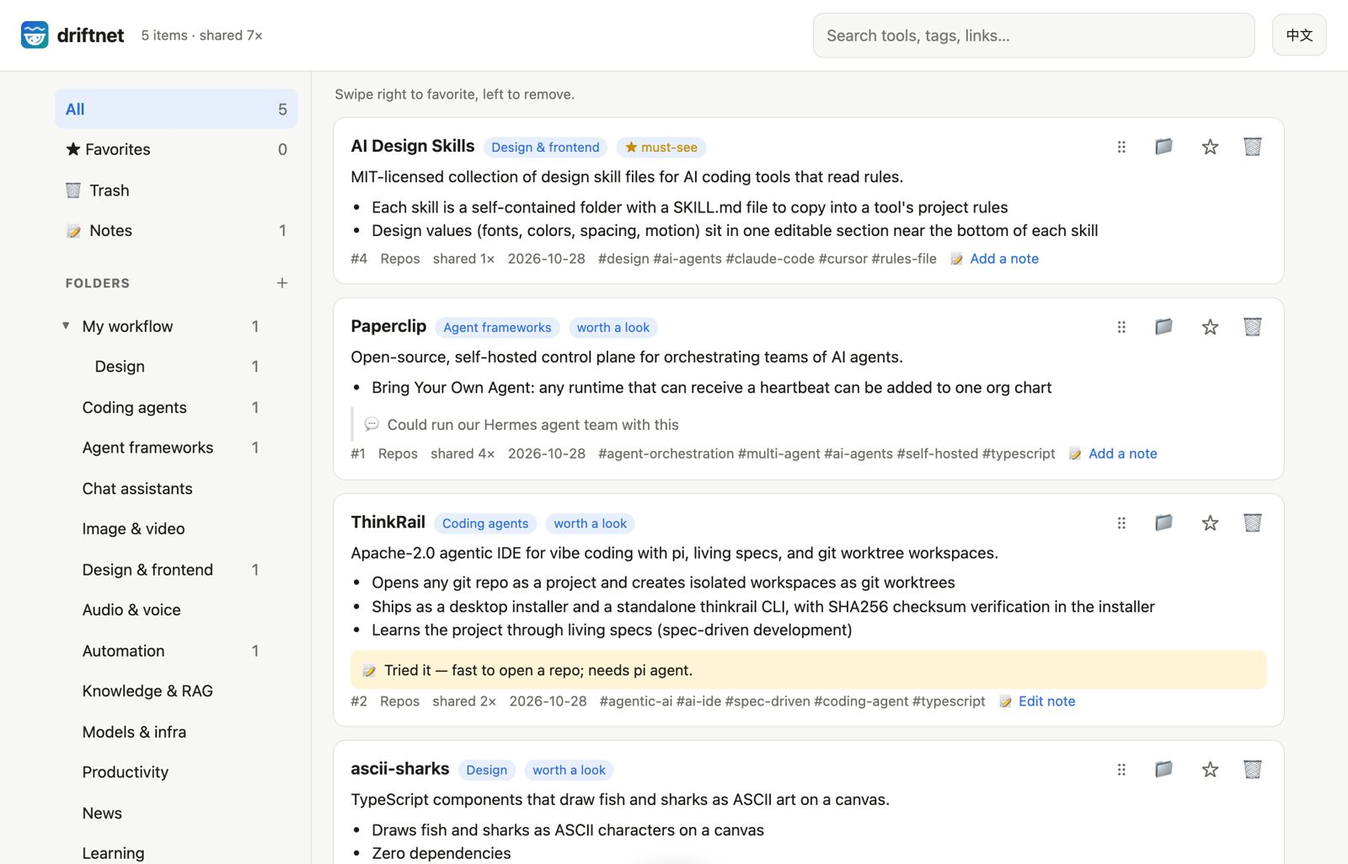
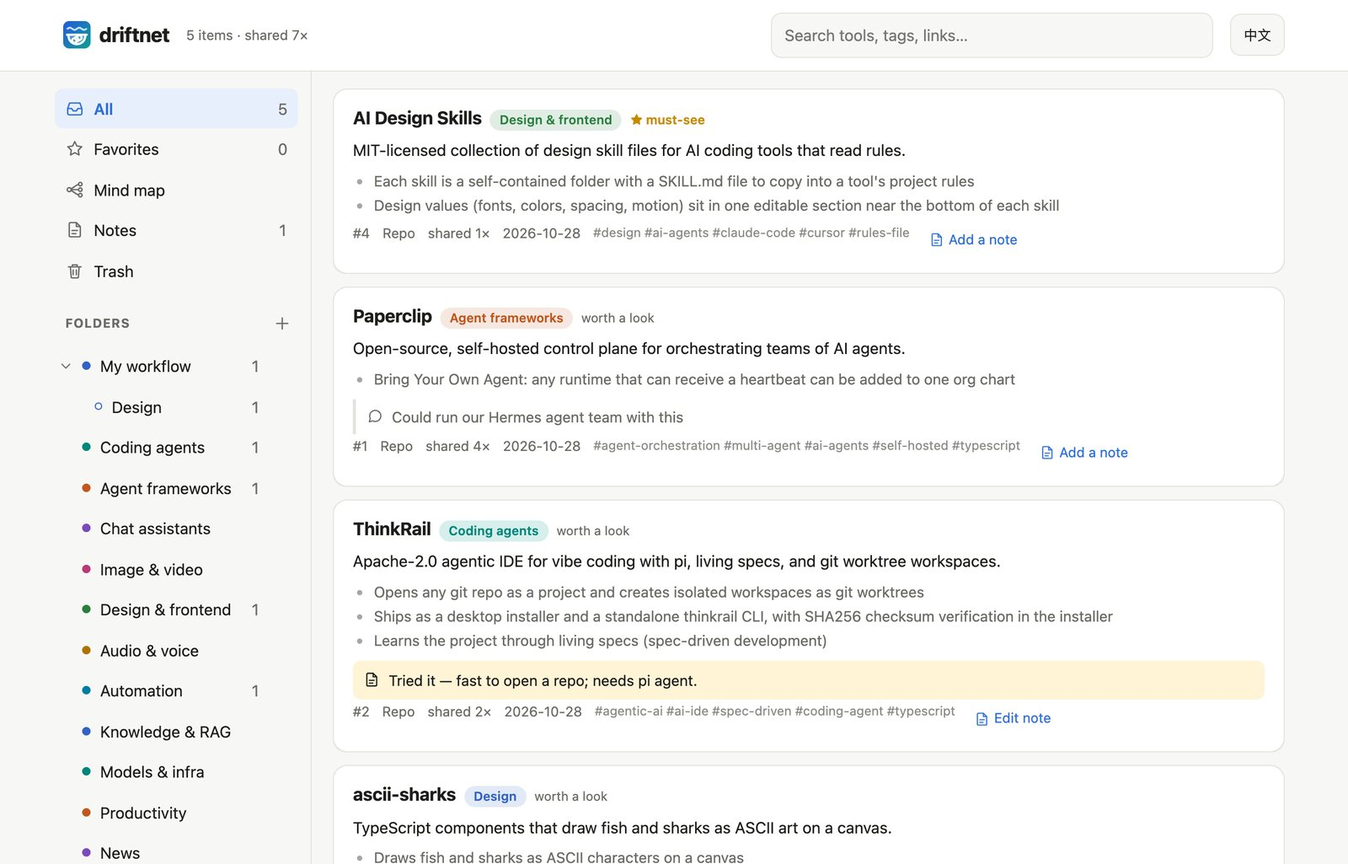
[DOC][FIX] persona round 3, new screenshots, README: mind map, read-only links, keyboard
Round 3 re-tests (phone user, power organiser, keyboard + dark mode):
- Phone: the arrival flash shows inside the card; plain wrong-password
  text; map hint describes hold-then-tap; on the map, toasts and the pick
  bar sit at the top (never over zoom); the map always opens on the root;
  fit stops at a readable size; a bigger hit area for ⋯.
- Organising: Move to… matches visible names first (typing "Agent" no
  longer files into "Coding agents"); a folder can't take a built-in
  folder's name in any language; the expand/collapse button follows the
  map; z only undoes while the toast is up; focus moves to the next card.
- Keyboard: focus returns to the card / map node after moving, a saved
  note or an undo; Settings opened from the drawer returns to ☰ and opens
  on the selected tab; the skip link is inert behind the drawer.
- Dark: empty level-1 map folders readable again; no raw variable names
  in Access; "summaries: off"; "How the bot replies".

README (en + zh-TW): mind map, read-only share links, keyboard shortcuts,
pnpm demo; new screenshots (desktop, phone triptych, mind map, notes and
settings, access and connect).

Claude-Session: https://claude.ai/code/session_01DiqM31RotdT7g4WSGPaMtt

diff --git a/apps/server/public/index.html b/apps/server/public/index.html
@@ -194,7 +194,7 @@
   .mnode.folder.l1 .cnt { background: rgba(255,255,255,.25); color: #fff; }
   .mnode.folder.l1 .tw, .mnode.folder.l1 .opt { color: #fff; }
   .mnode.folder.l2 { font-weight: 600; background: color-mix(in srgb, var(--c) 14%, var(--panel)); }
-  .mnode.folder.vacant { opacity: .6; border: 2px dashed var(--c); background: var(--panel); color: var(--text); }
+  .mnode.folder.vacant { opacity: .75; border: 2px dashed var(--c); background: var(--panel); color: var(--text); }
   .mnode.folder.vacant .opt { color: var(--muted); }
   .mnode.item { height: 30px; font-size: 13px; padding: 0 4px; border: 0; border-bottom: 2px solid var(--c); border-radius: 0; background: none; box-shadow: none; }
   .mnode.item:hover { background: color-mix(in srgb, var(--c) 10%, transparent); border-radius: 6px 6px 0 0; }
@@ -220,6 +220,13 @@
   @keyframes bump { 30% { transform: scale(1.14); box-shadow: 0 0 0 6px color-mix(in srgb, var(--c) 35%, transparent); } }
   .map-wrap.panning { cursor: grabbing; }
   body.map-view { overflow: hidden; }
+  /* On the map, messages sit at the top so they never cover the zoom buttons. */
+  body.map-view .toast { bottom: auto; top: calc(env(safe-area-inset-top) + 76px); transform: translate(-50%, calc(-100% - 120px)); }
+  body.map-view .toast.show { transform: translate(-50%, 0); }
+  body.map-view .pickbar { bottom: auto; top: calc(env(safe-area-inset-top) + 72px); }
+  .pickbar button { white-space: nowrap; }
+  .mnode .opt { position: relative; }
+  .mnode .opt::before { content: ""; position: absolute; inset: -9px; }
   body.map-view main { padding-bottom: 0; }
   .map-wrap { user-select: none; -webkit-user-select: none; }
   .mghost { position: fixed; z-index: 30; pointer-events: none; transform: translate(-50%, -130%) rotate(-2deg); opacity: .95; box-shadow: 0 10px 28px rgba(0,0,0,.25); }
@@ -292,8 +299,9 @@
   /* A card sits on top of two action strips that show while it is dragged. */
   .swipe { position: relative; border-radius: 12px; overflow: hidden; scroll-margin-top: 90px; transition: height .25s ease, margin .25s ease, opacity .25s ease; }
   .swipe.gone { opacity: 0; }
-  .swipe.flash .card { animation: flash 1.6s ease; }
-  @keyframes flash { 0%, 40% { box-shadow: 0 0 0 4px color-mix(in srgb, var(--accent) 55%, transparent); } 100% { box-shadow: var(--shadow); } }
+  /* Inside the card (the swipe wrapper clips anything outside it). */
+  .swipe.flash .card { animation: flash 2s ease; }
+  @keyframes flash { 0%, 55% { outline: 3px solid var(--accent); outline-offset: -3px; background: var(--accent-soft); } 100% { outline-color: transparent; } }
   .act { position: absolute; inset: 0; display: flex; align-items: center; padding: 0 22px; font-weight: 600; font-size: 14px; }
   .act.right { justify-content: flex-start; background: var(--star-soft); color: var(--star); }
   .act.left { justify-content: flex-end; background: var(--danger-soft); color: var(--danger); }
@@ -352,9 +360,12 @@
   /* Dark mode: light branch fills need dark text on the map. */
   @media (prefers-color-scheme: dark) { :root:not([data-theme="light"]) .mnode.folder.l1, :root:not([data-theme="light"]) .mnode.folder.l1 .tw,
                                         :root:not([data-theme="light"]) .mnode.folder.l1 .opt { color: #121211; }
-                                        :root:not([data-theme="light"]) .mnode.folder.l1 .cnt { background: rgba(0,0,0,.18); color: #121211; } }
+                                        :root:not([data-theme="light"]) .mnode.folder.l1 .cnt { background: rgba(0,0,0,.18); color: #121211; }
+                                        :root:not([data-theme="light"]) .mnode.folder.l1.vacant, :root:not([data-theme="light"]) .mnode.folder.l1.vacant .tw,
+                                        :root:not([data-theme="light"]) .mnode.folder.l1.vacant .opt { color: var(--text); } }
   :root[data-theme="dark"] .mnode.folder.l1, :root[data-theme="dark"] .mnode.folder.l1 .tw, :root[data-theme="dark"] .mnode.folder.l1 .opt { color: #121211; }
   :root[data-theme="dark"] .mnode.folder.l1 .cnt { background: rgba(0,0,0,.18); color: #121211; }
+  :root[data-theme="dark"] .mnode.folder.l1.vacant, :root[data-theme="dark"] .mnode.folder.l1.vacant .tw, :root[data-theme="dark"] .mnode.folder.l1.vacant .opt { color: var(--text); }
 
   @media (max-width: 720px) {
     header { padding: 10px 16px; padding-top: max(10px, env(safe-area-inset-top)); gap: 8px 10px; }
@@ -531,7 +542,7 @@
       moveTo: "Move to…", moveTitle: (n) => `Move “${n}” to`, moved: (n, f) => `Moved “${n}” to ${f}`, expand: "Show sub-folders",
       dragHint: "Drag onto a folder in the sidebar", foundIn: "Found in this post:", folderMoved: (n, f) => `“${n}” is now inside ${f}`,
       topLevelShort: "the top level",
-      map: "Mind map", mapHint: "Tap a folder to open it, tap a card to preview it. To file a card, drag it onto a folder (on a phone: hold it a moment first). ⋯ or a double-click renames a folder.",
+      map: "Mind map", mapHint: "Tap a folder to open it, tap a card to preview it. To file a card: drag it onto a folder — on a phone, hold it a moment, let go, then tap the folder. ⋯ renames a folder.",
       a11yFolder: (n, c) => `Folder ${n}, ${c} cards`, a11yCard: (n) => `Card ${n}`,
       expandAll: "Expand all", collapseAll: "Collapse all", zoomIn: "Zoom in", zoomOut: "Zoom out", fit: "Fit", openCard: "Open card",
       gotIt: "Got it", more: (n) => `+${n} more`, mapSearch: (q) => `Highlighting “${q}”`, openLink: "Open link", showInList: "Show in the list", close: "Close",
@@ -551,7 +562,7 @@
         theme: "Theme", themes: { auto: "Follow the system", light: "Light", dark: "Dark" },
         model: "Model & classifier", language: "Language & chat replies", rules: "Your rules",
         plugins: "Plugins", pluginsNone: (dir) => `No plugins. Put .js files in ${dir} — see examples/plugins in the repo.`,
-        status: (e) => `Now: sorting by ${({ jev: "Jev", llm: "the model", heuristic: "built-in rules" })[e.judge] ?? e.judge}, summaries by ${e.summarizer === "off" ? "nobody (off)" : e.summarizer}`, keep: "set — leave empty to keep", unset: "not set",
+        status: (e) => `Now: sorting by ${({ jev: "Jev", llm: "the model", heuristic: "built-in rules" })[e.judge] ?? e.judge}, summaries: ${e.summarizer === "off" ? "off" : e.summarizer}`, keep: "set — leave empty to keep", unset: "not set",
         locked: "set by the environment driftnet runs in", forbidden: "Server settings can only be changed on the computer running driftnet (or set DRIFTNET_TOKEN). Display settings still work.",
         savedServer: "Saved — already in effect", chat: "Chat replies", genCopied: "New password generated and copied — press Save to keep it",
         tabGeneral: "General", tabAccess: "Access", tabAi: "AI",
@@ -570,7 +581,7 @@
         tunnelStarting: "Starting the tunnel… (up to 30 s)", saveFirst: "Save first, then open the public URL.",
         connect: "Connect an AI",
         login: "Enter admin password", logout: "Log out on this device", loginTitle: "Unlock editing", loginOk: "Unlock", unlocked: "Unlocked — you can edit now", unlockShort: "Unlock",
-        loginWrong: "That's not the admin password.", viewOnly: "View only · Unlock",
+        loginWrong: "That password didn't work — try again.", viewOnly: "View only · Unlock",
         loginHelp: "Type this driftnet's password — usually from whoever set it up. Without it you can still look at everything.",
         loginAdvanced: "Forgot it (you set it up)? Open driftnet on the computer it runs on — Settings there sets a new one. On a server: From your computer run  ssh -L PORT:127.0.0.1:PORT <server>  and open http://localhost:PORT.",
         keyWrong: "That's neither the admin password nor a share key.",
@@ -585,7 +596,7 @@
           GITHUB_TOKEN: ["GitHub token", "Optional: GitHub lookups go from 60 to 5000 an hour"],
           DRIFTNET_LANGUAGE: ["Summary language", "English, Traditional Chinese (Taiwan), Japanese…"],
           DRIFTNET_LOCALE: ["Bot language", ""],
-          DRIFTNET_REPLY: ["Chat replies", ""],
+          DRIFTNET_REPLY: ["How the bot replies", ""],
           DRIFTNET_PUBLIC_URL: ["This page's public URL", "Replies link here, e.g. https://driftnet.example.com"],
           DRIFTNET_SUMMARY_RULES: ["Extra rules for summaries", "e.g. Say whether it's free. Mention if it needs a GPU."],
           DRIFTNET_BLOCK_DOMAINS: ["Never catalogue these domains", "Comma or space separated, e.g. example.com, spam.io"],
@@ -621,7 +632,7 @@
       moveTo: "移動到…", moveTitle: (n) => `把「${n}」移動到`, moved: (n, f) => `已將「${n}」移到 ${f}`, expand: "展開子資料夾",
       dragHint: "拖到側邊欄的資料夾", foundIn: "從這篇找到：", folderMoved: (n, f) => `「${n}」已移到 ${f} 底下`,
       topLevelShort: "最上層",
-      map: "樹狀圖", mapHint: "點資料夾展開，點卡片預覽。要整理就把卡片拖到資料夾上（手機先按住一下再拖）。按 ⋯ 或連點兩下可以改資料夾名稱。",
+      map: "樹狀圖", mapHint: "點資料夾展開，點卡片預覽。整理卡片：把它拖到資料夾上；手機上按住卡片一下、放開，再點要放進去的資料夾。按 ⋯ 可以改資料夾名稱。",
       a11yFolder: (n, c) => `資料夾 ${n}，${c} 張卡片`, a11yCard: (n) => `卡片 ${n}`,
       expandAll: "全部展開", collapseAll: "全部收合", zoomIn: "放大", zoomOut: "縮小", fit: "符合畫面", openCard: "開啟卡片",
       gotIt: "知道了", more: (n) => `還有 ${n} 張`, mapSearch: (q) => `標亮「${q}」`, openLink: "開啟連結", showInList: "在清單中查看", close: "關閉",
@@ -660,7 +671,7 @@
         tunnelStarting: "正在開通道…（最多 30 秒）", saveFirst: "先按儲存，再開公開網址。",
         connect: "連接 AI",
         login: "輸入管理密碼", logout: "在這台裝置登出", loginTitle: "解鎖編輯", loginOk: "解鎖", unlocked: "已解鎖，現在可以編輯了", unlockShort: "解鎖",
-        loginWrong: "管理密碼不對。", viewOnly: "只能看 · 解鎖編輯",
+        loginWrong: "密碼不對，再試一次。", viewOnly: "只能看 · 解鎖編輯",
         loginHelp: "輸入這個 driftnet 的密碼，通常是架設它的人給你的。沒有密碼也能看所有內容，只是不能修改。",
         loginAdvanced: "密碼是你自己設的但忘了？到跑 driftnet 的那台電腦打開網頁，設定裡可以直接設新的。跑在伺服器上的話：在你的電腦執行  ssh -L PORT:127.0.0.1:PORT <伺服器>  再打開 http://localhost:PORT。",
         keyWrong: "這不是管理密碼，也不是分享碼。",
@@ -675,7 +686,7 @@
           GITHUB_TOKEN: ["GitHub token", "選填：GitHub 查詢上限從每小時 60 次變 5000 次"],
           DRIFTNET_LANGUAGE: ["摘要語言", "English、Traditional Chinese (Taiwan)、Japanese…"],
           DRIFTNET_LOCALE: ["機器人語言", ""],
-          DRIFTNET_REPLY: ["聊天室回覆", ""],
+          DRIFTNET_REPLY: ["機器人怎麼回覆", ""],
           DRIFTNET_PUBLIC_URL: ["這個網頁的公開網址", "回覆裡的連結會指到這裡，例如 https://driftnet.example.com"],
           DRIFTNET_SUMMARY_RULES: ["摘要的額外規則", "例如：說明是否免費。需要 GPU 的話要提到。"],
           DRIFTNET_BLOCK_DOMAINS: ["不要收錄的網域", "用逗號或空白分隔，例如 example.com, spam.io"],
@@ -797,6 +808,7 @@
     // Keyboard and screen-reader focus stay inside the drawer while it is open.
     for (const id of ["list", "crumb"]) $(id).inert = open && isDrawer();
     document.querySelector("header").inert = open && isDrawer();
+    document.querySelector(".skip").inert = open && isDrawer();
     $("menu").setAttribute("aria-expanded", String(open));
     if (!keyboard) return;
     if (open) $("nav").querySelector('[aria-pressed="true"]')?.focus({ preventScroll: true });
@@ -974,7 +986,7 @@
                                       ...(body ? { body: JSON.stringify(body) } : {}) });
       if (res.status === 401) { needAdmin(); return null; }
       const data = await res.json().catch(() => ({}));
-      if (!res.ok) { $("fd-error").textContent = data.error ?? T().failed; return null; }
+      if (!res.ok) { $("fd-error").textContent = friendlyError(data.error) ?? T().failed; return null; }
       return data;
     } catch {
       $("fd-error").textContent = T().failed;
@@ -1004,7 +1016,11 @@
   $("mv-cancel").onclick = () => $("move-dlg").close();
   $("mv-filter").addEventListener("input", () => {
     const q = $("mv-filter").value.trim().toLowerCase();
-    for (const b of $("mv-list").querySelectorAll("[data-to]")) b.hidden = !!q && !b.textContent.toLowerCase().includes(q) && !b.dataset.to.includes(q);
+    const rows = [...$("mv-list").querySelectorAll("[data-to]")];
+    // Match what the reader sees; the hidden id (e.g. "coding-agent") only when no visible name matches.
+    const byName = rows.filter((b) => b.textContent.toLowerCase().includes(q));
+    const shown = new Set(q ? (byName.length ? byName : rows.filter((b) => b.dataset.to.includes(q))) : rows);
+    for (const b of rows) b.hidden = !shown.has(b);
   });
   $("mv-filter").addEventListener("keydown", (e) => {
     const visible = [...$("mv-list").querySelectorAll("[data-to]:not([hidden])")];
@@ -1043,7 +1059,10 @@
     const el = document.getElementById(`item-${id}`);
     // Still inside the folder being viewed? Update the badge; otherwise it leaves the list.
     const visible = !state.category || subtreeOf(state.category).has(to);
-    if (el && !visible) dismiss(el);
+    if (el && !visible) {
+      if (el.contains(document.activeElement)) (el.nextElementSibling ?? el.previousElementSibling)?.querySelector?.(".card")?.focus();
+      dismiss(el);
+    }
     else if (el) { el.outerHTML = card(item); attachSwipe(document.getElementById(`item-${id}`)); }
     refreshTree();
     // The list and the map hold their own copies of the item: keep both in step.
@@ -1167,8 +1186,9 @@
     $("st-body").dataset.tab = tab;
     $("st-cancel").textContent = t.cancel;
     $("st-save").textContent = st.save;
-    settingsOpener = document.activeElement;
+    settingsOpener = isDrawer() ? $("menu") : document.activeElement;
     $("settings-dlg").showModal();
+    $("st-body").querySelector('[data-tab-btn][aria-selected="true"]')?.focus();
   }
   let settingsOpener = null;
   $("settings-dlg").addEventListener("close", () => { if (settingsOpener?.isConnected) settingsOpener.focus(); });
@@ -1224,11 +1244,11 @@
     else tun = `<button class="btn primary" type="button" id="ac-tunnel" data-on="1" ${a.passwordSet ? "" : "disabled"}>${esc(st.tunnelOn)}</button>
         <small>${esc(a.passwordSet ? st.tunnelPrivate : st.tunnelNeedsPassword)}</small>`;
     return `<fieldset class="set-group" id="ac"><legend>${esc(st.access)}</legend>
-      <div class="set-row"><span>${esc(st.password)} <small>DRIFTNET_TOKEN</small></span>${pwInput}
+      <div class="set-row"><span title="DRIFTNET_TOKEN">${esc(st.password)}</span>${pwInput}
         <small>${esc(pw.locked ? st.locked : st.passwordHelp)}</small></div>
       <p class="warn">${esc(st.passwordWarn)}</p>
-      <label class="set-row"><span>${esc(st.accessMode)} <small>DRIFTNET_ACCESS</small></span>${modeSel}</label>
-      <div class="set-row"><span>${esc(st.shareKey)} <small>DRIFTNET_READ_KEY</small></span>${key}<small>${esc(st.shareKeyHelp)}</small></div>
+      <label class="set-row"><span title="DRIFTNET_ACCESS">${esc(st.accessMode)}</span>${modeSel}</label>
+      <div class="set-row"><span title="DRIFTNET_READ_KEY">${esc(st.shareKey)}</span>${key}<small>${esc(st.shareKeyHelp)}</small></div>
       <div class="set-row"><span>${esc(st.tunnel)}</span>${tun}<small>${esc(st.tunnelHelp)}</small>${t.error ? `<small class="dlg-error">${esc(t.error)}</small>` : ""}</div>
     </fieldset>`;
   }
@@ -1322,6 +1342,7 @@
       [/set an admin password first|Save first/, () => zh ? "要先設定並儲存管理密碼。" : "Set and save an admin password first."],
       [/cloudflared is not installed/, () => zh ? "這台電腦還沒安裝 cloudflared。" : "cloudflared isn't installed on this computer."],
       [/set by the environment/, () => zh ? "這個設定由執行環境決定（例如 systemd），要在那裡改。" : "This one is set by the environment driftnet runs in; change it there."],
+      [/already a folder called “(.+)” here/, (m) => zh ? `這裡已經有一個叫「${m[1]}」的資料夾了。` : `There's already a folder called “${m[1]}” here.`],
       [/too many wrong passwords/, () => zh ? "密碼錯太多次，請 15 分鐘後再試。" : "Too many wrong passwords — try again in 15 minutes."],
     ];
     for (const [re, f] of rules) { const m = re.exec(msg); if (m) return f(m); }
@@ -1344,7 +1365,7 @@
       if (err.unauthorized) return askToken();
       throw err;
     }
-    const allOpen = mapOpen.size > 0;
+    const allOpen = mapOpen.size > 0 || !!state.q;
     const tip = store.get("driftnet-map-tip") ? "" : `<p class="hint map-tip">${esc(t.mapHint)} <button class="link-btn" type="button" data-map="tip">${esc(t.gotIt)}</button></p>`;
     $("list").innerHTML = `<div class="map-bar">
         <button class="btn" type="button" data-map="${allOpen ? "collapse" : "expand"}">${ic(allOpen ? "collapse" : "expand")} ${esc(allOpen ? t.collapseAll : t.expandAll)}</button>
@@ -1358,8 +1379,24 @@
           <button type="button" data-map="in" aria-label="${esc(t.zoomIn)}">${ic("plus")}</button></div></div>`;
     drawMap();
     sizeMap();
-    // On a phone the whole tree rarely fits: start fitted to the width (still readable), root in view.
+    // On a phone the whole tree rarely fits: start fitted to the width (still readable).
     if (isDrawer() && !store.get("driftnet-map-zoom")) fitWidth();
+    centreOnRoot();
+  }
+  /** The toolbar's Expand all / Collapse all follows what is open. */
+  function syncMapToggle() {
+    const b = $("list").querySelector('[data-map="expand"], [data-map="collapse"]');
+    if (!b) return;
+    const open = mapOpen.size > 0, t = T();
+    b.dataset.map = open ? "collapse" : "expand";
+    b.innerHTML = `${ic(open ? "collapse" : "expand")} ${esc(open ? t.collapseAll : t.expandAll)}`;
+  }
+  /** Every time the map opens, start from the root, not wherever the scroll happened to be. */
+  function centreOnRoot() {
+    const wrap = $("map-wrap"), root = $("map-canvas")?.querySelector('.mnode[data-key="root"]');
+    if (!wrap || !root) return;
+    wrap.scrollTop = root.offsetTop * mapZoom - wrap.clientHeight / 2;
+    wrap.scrollLeft = 0;
   }
   function fitWidth() {
     const wrap = $("map-wrap"), c = $("map-canvas");
@@ -1370,7 +1407,11 @@
   }
   function fitMap() {
     const wrap = $("map-wrap"), c = $("map-canvas");
-    if (wrap && c) mapZoomTo(Math.min(1.3, (wrap.clientWidth - 8) / c.offsetWidth, (wrap.clientHeight - 8) / c.offsetHeight));
+    if (!wrap || !c) return;
+    // Fit, but never so small the text can't be read (phones stop at 0.6, desktops at 0.45); then start at the root.
+    const floor = isDrawer() ? 0.6 : 0.45;
+    mapZoomTo(Math.max(floor, Math.min(1.3, (wrap.clientWidth - 8) / c.offsetWidth, (wrap.clientHeight - 8) / c.offsetHeight)));
+    centreOnRoot();
   }
   /** The map fills the rest of the screen, so the page and the map don't scroll inside each other. */
   function sizeMap() {
@@ -1470,6 +1511,7 @@
     // The scroll area follows the zoomed size.
     canvas.style.marginRight = `${width * mapZoom - width}px`;
     canvas.style.marginBottom = `${height * mapZoom - height}px`;
+    restoreFocus();
     const first = canvas.querySelector(".mnode.hit");
     const wrap = $("map-wrap");
     // Scroll only the map, never the page (the toolbar must stay reachable).
@@ -1492,7 +1534,7 @@
   };
   const toggleFolder = (id) => {
     const refocus = document.activeElement?.dataset?.key === `f:${id}`;
-    mapOpen.has(id) ? mapOpen.delete(id) : mapOpen.add(id); saveMapOpen(); drawMap();
+    mapOpen.has(id) ? mapOpen.delete(id) : mapOpen.add(id); saveMapOpen(); drawMap(); syncMapToggle();
     if (refocus) $("map-canvas").querySelector(`.mnode[data-key="f:${CSS.escape(id)}"]`)?.focus();
   };
   /** The "+N" node: everything in that folder, as cards. */
@@ -1853,6 +1895,7 @@
     item.note = saved.note;
     const el = document.getElementById(`item-${noting}`);
     if (el) { el.outerHTML = card(item); attachSwipe(document.getElementById(`item-${noting}`)); }
+    setTimeout(restoreFocus, 0);
     toast(T().saved);
   };
 
@@ -1992,6 +2035,7 @@
     $("add-form")?.addEventListener("submit", addLink);
     $("list").querySelector("[data-connect-empty]")?.addEventListener("click", () => openConnect());
     for (const el of $("list").querySelectorAll(".swipe")) attachSwipe(el);
+    restoreFocus();
     // Only #item-<n> is ours; anything else in the hash must not break the page.
     if (/^#item-\d+$/.test(location.hash)) {
       const target = document.getElementById(location.hash.slice(1));
@@ -2193,6 +2237,23 @@
 
   // ── Toast with undo ──────────────────────────────────────────────────────
   let toastTimer;
+  /**
+   * Keyboard focus survives re-renders: remember the card or map node last focused, and put focus back
+   * when a re-render or a closing dialog would otherwise drop it on <body>.
+   */
+  let focusKey = null, focusAt = 0;
+  document.addEventListener("focusin", (e) => {
+    const card = e.target.closest?.(".swipe"), node = e.target.closest?.(".mnode");
+    if (card) { focusKey = `#${card.id} .card`; focusAt = Date.now(); }
+    else if (node) { focusKey = `.mnode[data-key="${CSS.escape(node.dataset.key)}"]`; focusAt = Date.now(); }
+  });
+  function restoreFocus() {
+    if (!focusKey || Date.now() - focusAt > 60_000 || document.querySelector("dialog[open]")) return;
+    if (document.activeElement && document.activeElement !== document.body) return;
+    const el = document.querySelector(focusKey);
+    if (el) el.focus({ preventScroll: true });
+  }
+  for (const d of document.querySelectorAll("dialog")) d.addEventListener("close", () => setTimeout(restoreFocus, 0));
   /** The newest undoable action, so z (or ⌘/Ctrl+Z) can undo it from the keyboard. */
   let lastUndo = null;
   function toast(text, undo) {
@@ -2205,14 +2266,16 @@
     $("toast").classList.add("show");
     toastMs = Math.min(9000, 4500 + text.length * 45);
     clearTimeout(toastTimer);
-    toastTimer = setTimeout(() => $("toast").classList.remove("show"), toastMs);
+    toastTimer = setTimeout(hideToast, toastMs);
   }
+  // Once the toast is gone, z no longer undoes something you can't see any more.
+  function hideToast() { $("toast").classList.remove("show"); lastUndo = null; }
   let toastMs = 5000;
   // Reading or reaching for Undo keeps the toast up.
   for (const ev of ["pointerenter", "focusin"]) $("toast").addEventListener(ev, () => clearTimeout(toastTimer));
   for (const ev of ["pointerleave", "focusout"]) $("toast").addEventListener(ev, () => {
     clearTimeout(toastTimer);
-    if ($("toast").classList.contains("show")) toastTimer = setTimeout(() => $("toast").classList.remove("show"), 2500);
+    if ($("toast").classList.contains("show")) toastTimer = setTimeout(hideToast, 2500);
   });
 
   // ── Keyboard: j/k to step through cards, then act on the focused one ─────

diff --git a/packages/core/src/store.ts b/packages/core/src/store.ts
@@ -2,6 +2,7 @@ import { mkdirSync } from "node:fs";
 import { dirname } from "node:path";
 import { DatabaseSync } from "node:sqlite";
 import type { Item, Judgement, Kind, ShareContext, Summary, Worth } from "./types.ts";
+import { categoryLabel, LOCALES } from "./i18n.ts";
 
 interface ItemRow {
   id: number; url: string; title: string; kind: string; category: string; worth: string;
@@ -238,7 +239,9 @@ export class Store {
     const parent = input.parent || null;
     if (parent && !this.folderExists(parent)) throw new FolderError(`no folder ${parent}`);
     // Two folders with the same name side by side can't be told apart (in the tree, or by the classifier).
-    if (this.folders().some((f) => (f.parent ?? null) === parent && (f.name ?? f.id).toLowerCase() === name.toLowerCase())) {
+    // A built-in folder goes by its label in every language ("Other", "其他"), not just its id.
+    const names = (f: Folder) => (f.name ? [f.name] : [f.id, ...LOCALES.map((l) => categoryLabel(f.id, l))]).map((x) => x.toLowerCase());
+    if (this.folders().some((f) => (f.parent ?? null) === parent && names(f).includes(name.toLowerCase()))) {
       throw new FolderError(`there is already a folder called “${name}” here`);
     }
     const base = name.toLowerCase().replace(/[^a-z0-9]+/g, "-").replace(/^-|-$/g, "").slice(0, 40);

diff --git a/scripts/phone-shot.html b/scripts/phone-shot.html
@@ -7,6 +7,6 @@
   figcaption { margin-top: 16px; }
 </style></head><body>
   <figure><div class="phone"><img src="web-phone-menu-LANG.png"></div><figcaption>CAP1</figcaption></figure>
-  <figure><div class="phone"><img src="web-phone-move-LANG.png"></div><figcaption>CAP2</figcaption></figure>
+  <figure><div class="phone"><img src="web-phone-pickup-LANG.png"></div><figcaption>CAP2</figcaption></figure>
   <figure><div class="phone"><img src="web-phone-swiping-LANG.png"></div><figcaption>CAP3</figcaption></figure>
 </body></html>

diff --git a/README.zh-TW.md b/README.zh-TW.md
@@ -105,7 +105,7 @@ curl -X POST localhost:8787/api/chat -H 'content-type: application/json' \
 
 ### 網頁
 
-<p align="center"><img src="assets/phone-zh-TW.jpg" alt="driftnet 在手機上：☰ 側邊欄裡的資料夾樹、「移動到…」選單、一張卡片往左滑向垃圾桶" width="100%"></p>
+<p align="center"><img src="assets/phone-zh-TW.jpg" alt="driftnet 在手機上：☰ 選單裡的資料夾樹、在樹狀圖上整理卡片（按住後點資料夾）、一張卡片往左滑向垃圾桶" width="100%"></p>
 
 每個連結都會整理到一個網頁上，可以搜尋、依資料夾和類型篩選，手機也能開。在手機上，側邊欄會收進左上角的 ☰，
 搜尋框下方有一行字告訴你現在看的是哪個資料夾。

diff --git a/README.md b/README.md
@@ -113,7 +113,7 @@ where to read it on the web page. Want the summary in the chat instead, or no re
 
 ### The web page
 
-<p align="center"><img src="assets/phone-en.jpg" alt="driftnet on a phone: the ☰ drawer with your folder tree, the Move to… picker, and a card being swiped left to the trash" width="100%"></p>
+<p align="center"><img src="assets/phone-en.jpg" alt="driftnet on a phone: the ☰ drawer with your folder tree, filing a card on the mind map (hold it, then tap a folder), and a card being swiped left to the trash" width="100%"></p>
 
 Every link lands on a page you can search, filter by folder and kind, and open from a phone. On a
 phone the sidebar folds into a ☰ drawer, and a line under the search box says what you're looking at.
